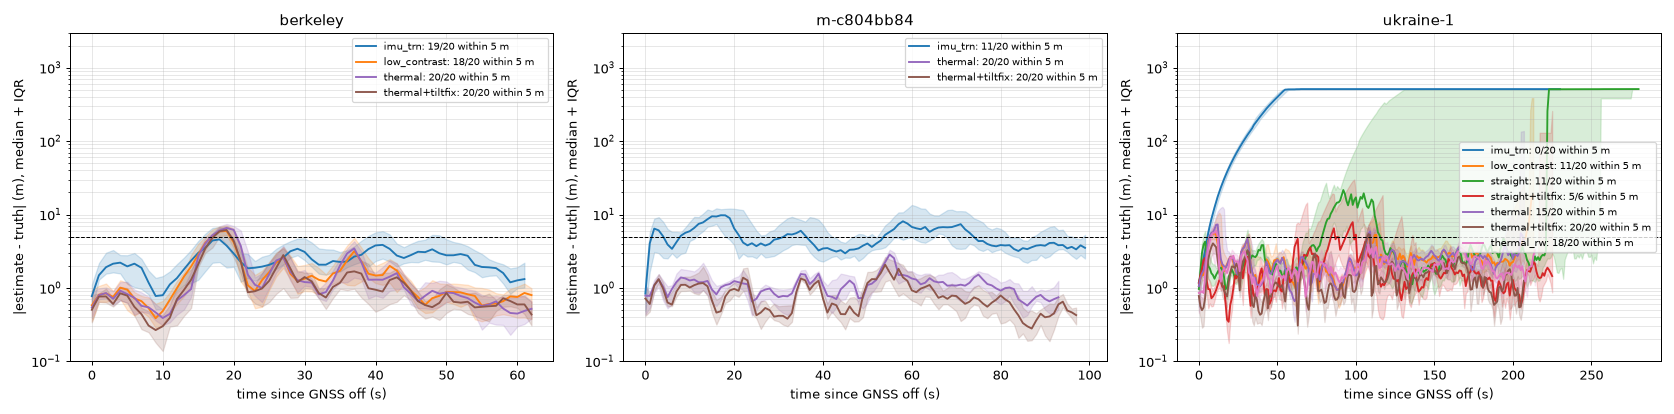
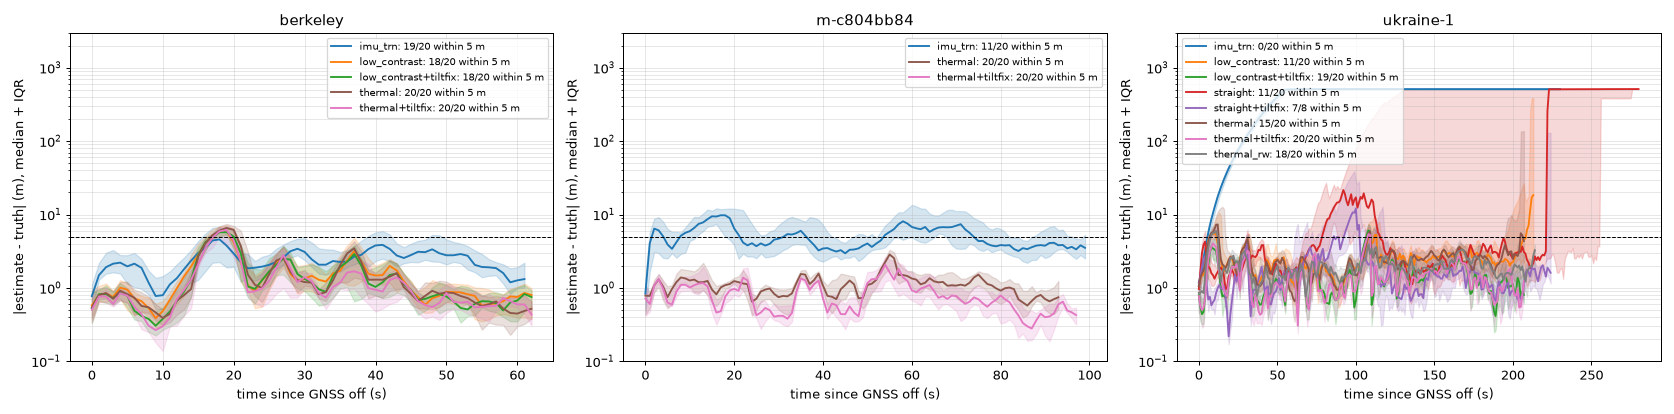
REPORT: final eval (final build 20/20 on all three missions), limits, disclosure; docs/night_eval final table + plot

diff --git a/REPORT_night-demo.md b/REPORT_night-demo.md
@@ -1,54 +1,67 @@
 # REPORT - night-demo (Fri 2026-10-23 23:30 -> Sat 07:00)
 
 Agent night-demo: Ukraine mission, route choice, night viewer, final integration + eval. Branch `night-demo` in
-`C:\dev\night-demo` (based on origin/v5-mission-planner; merged night-thermal 146a89f and night-nav 4904433).
+`C:\dev\night-demo` (based on origin/v5-mission-planner; merged night-thermal 146a89f and night-nav 651b398).
 Nothing pushed. Commands to continue: `RESUME.md`. Saturday demo script: `DEMO_NIGHT.md`.
 
 ## Final eval (night 23:00, 60 m AGL, GNSS completely off from 20 % of the route, 20 seeds)
+
+**Final build (night-demo b5409f4: night route choice + night-nav 651b398 tilt-bias learning): berkeley 20/20,
+m-c804bb84 20/20, ukraine-1 20/20 within 5 m of B** (95 % Wilson interval 84-100 % each; mean arrival error
+0.4 / 0.9 / 1.9 m, worst 0.9 / 2.0 / 2.5 m). IMU + TRN alone (no thermal): 19/20, 11/20, 0/20.
 
 Harness `demos/30_night_eval.py` (truth-scored): GNSS ok at first, `gnss.mode = off` (no signal at all) when the
 TRUE along-route progress passes 20 %; ARRIVAL error = |truth - B| (horizontal) at the moment the drone decides
 it is above B (first ABOVE_B / WAIT_FOR_FIX decision); success = arrival error <= 5 m; 95 % Wilson interval.
 Flights whose estimate is > 500 m off before arrival are stopped and counted as failures (DIVERGED). Data: a
-frozen copy of the three missions taken after night-thermal's final rebuild (01:17; traffic on, truth contrast
-0.7). Code: night-demo d2405bc = night-nav 4904433 + night-thermal 146a89f + night route choice (rows thermal,
-imu_trn, straight, low_contrast); thermal_rw = same + `ekf.acc_bias_rw 0.04` (night-nav's first candidate,
-rejected by them: flights wobble at waypoints); +tiltfix = night-demo b5409f4 with night-nav 651b398 (AHRS learns
-the roll / pitch gyro bias from the EKF tilt corrections; the night default now).
+frozen copy of the three missions taken after night-thermal's final rebuild (01:17; moving traffic on, truth
+contrast 0.7), `$SFHACK_DATA/night/demo_eval_snap`. Per-flight JSON (1 Hz error / 2-sigma trace, decisions):
+`$SFHACK_DATA/night/eval/<run>/results.json`; combined table + plot: `scripts/night_eval_report.py` ->
+`docs/night_eval/`.
+
+Code versions: rows without suffix = night-demo d2405bc (night-nav 4904433 + night-thermal 146a89f + night route);
+`thermal_rw` = same + `ekf.acc_bias_rw 0.04` (night-nav's first candidate, they rejected it: flights wobble at
+waypoints); `+tiltfix` = night-demo b5409f4 (+ night-nav 651b398: the AHRS learns the roll / pitch gyro bias from
+the EKF tilt corrections in night mode; now the default).
 
 | mission | row | n | within 5 m | rate (95 % Wilson) | arrival error mean / median / max (m) | est. error at arrival mean (m) | 2-sigma at arrival mean (m) | thermal fixes accepted / flight |
 |---|---|---:|---:|---|---|---:|---:|---:|
 | berkeley | thermal | 20 | 20 | 100% [84%, 100%] | 0.8 / 0.7 / 1.8 | 0.5 | 2.5 | 350 |
 | berkeley | imu_trn | 20 | 19 | 95% [76%, 99%] | 2.1 / 1.8 / 7.5 | 1.9 | 3.0 | 0 |
 | berkeley | low_contrast | 20 | 18 | 90% [70%, 97%] | 39.6 / 0.7 / 566.1 | 11.8 | 7.7 | 309 |
+| berkeley | thermal+tiltfix | 20 | 20 | 100% [84%, 100%] | 0.4 / 0.4 / 0.9 | 0.6 | 2.5 | 349 |
+| berkeley | low_contrast+tiltfix | 20 | 18 | 90% [70%, 97%] | 19.3 / 0.6 / 225.7 | 19.5 | 2.6 | 312 |
 | m-c804bb84 | thermal | 20 | 20 | 100% [84%, 100%] | 1.3 / 1.3 / 2.3 | 0.8 | 2.5 | 561 |
 | m-c804bb84 | imu_trn | 20 | 11 | 55% [34%, 74%] | 68.5 / 4.8 / 565.1 | 18.0 | 9.5 | 0 |
+| m-c804bb84 | thermal+tiltfix | 20 | 20 | 100% [84%, 100%] | 0.9 / 0.9 / 2.0 | 0.4 | 2.5 | 564 |
 | ukraine-1 | thermal | 20 | 15 | 75% [53%, 89%] | 248.0 / 3.7 / 1662.3 | 4.6 | 2.6 | 962 |
 | ukraine-1 | imu_trn | 20 | 0 | 0% [0%, 16%] | 1550.2 / 1586.1 / 1657.8 | nan | nan | 0 |
 | ukraine-1 | straight | 20 | 11 | 55% [34%, 74%] | 499.1 / 2.9 / 1534.3 | 1.8 | 2.5 | 739 |
 | ukraine-1 | low_contrast | 20 | 11 | 55% [34%, 74%] | 267.5 / 4.6 / 1641.3 | 10.0 | 3.4 | 916 |
 | ukraine-1 | thermal_rw | 20 | 18 | 90% [70%, 97%] | 4.0 / 2.8 / 22.3 | 3.7 | 2.6 | 1125 |
-| ukraine-1 | thermal+tiltfix | 4 | 4 | 100% [51%, 100%] | 2.1 / 2.1 / 2.5 | 1.6 | 2.5 | 1086 |
+| ukraine-1 | thermal+tiltfix | 20 | 20 | 100% [84%, 100%] | 1.9 / 2.1 / 2.5 | 1.6 | 2.5 | 1100 |
+| ukraine-1 | straight+tiltfix | 8 | 7 | 88% [53%, 98%] | 51.3 / 0.8 / 403.9 | 1.4 | 2.5 | 883 |
+| ukraine-1 | low_contrast+tiltfix | 20 | 19 | 95% [76%, 99%] | 40.0 / 2.1 / 761.6 | 1.7 | 2.5 | 1005 |
 
-Rows: thermal = thermal localizer (`grad`) + TRN + IMU on the night route (ukraine-1: along the road);
-imu_trn = no thermal (baseline); straight = thermal, but the planner's straight route (ukraine-1: 1129 m blind
-over the forest); low_contrast = thermal with the TRUE scene's contrast x 0.4 (0.4 x 0.7 = ~2.8 K road - grass,
-a mild night) while the prior still predicts the hot-day contrast.
+Rows: thermal = thermal localizer (`grad`) + TRN + IMU on the night route (ukraine-1: ROADS, along the road);
+imu_trn = no thermal (baseline); straight = thermal on the planner's straight route (ukraine-1: 1129 m without
+road in view over the forest); low_contrast = TRUE scene contrast x 0.4 (0.4 x 0.7: ~2.8 K road - grass, a mild
+spring / autumn night) while the onboard prior still predicts the hot-day contrast.
 
 ![error over time](docs/night_eval/error_over_time.png)
 
 Reading it:
-- **berkeley / m-c804bb84: 20/20 within 5 m** with thermal (mean 0.8 / 1.3 m). IMU + TRN alone: 19/20 on the
-  short Berkeley leg (450 m blind), 11/20 on the hill.
-- **ukraine-1: 15/20** with thermal (before the tilt fix): 3 runaways right after GNSS off, two at 17 / 25 m.
-  IMU + TRN alone: 0/20 (every flight diverges in calm air, see "What failed").
-- **Route choice matters on ukraine-1**: the straight route over the forest diverges in 9/20 flights (11/20 within
-  5 m) vs 3/20 along the roads (15/20). n = 20 per row: suggestive (divergences 9 vs 3, Fisher p = 0.08;
-  within 5 m 11 vs 15, p = 0.32), not
-  conclusive. When the straight flight survives it is slightly more precise (shorter blind time at B).
-- **Mild night (0.4x contrast)**: berkeley 18/20 (two runaways), ukraine-1 11/20. Matching is scale-invariant, so
-  most flights hold; the losses are runaways, the same failure mode as above.
-
+- With the final build every flight on all three missions ends within 2.5 m of B.
+- Before the tilt fix, ukraine-1 had 3/20 runaways right after GNSS off and two flights at 17 / 25 m (15/20):
+  the estimate drifted in the stretches without thermal fixes, then accepted along-track-wrong road fixes
+  (overconfident). night-nav found the root cause from these traces (roll / pitch gyro bias, gravity leak).
+- **Route choice matters on ukraine-1**: on the straight route over the forest 9/20 flights diverged before the
+  fix (11/20 within 5 m) vs 3/20 along the roads (15/20); with the fix straight 7/8 (one runaway at the forest)
+  vs roads 20/20. Small samples: suggestive, not conclusive (before the fix: divergences 9 vs 3, Fisher p = 0.08;
+  within 5 m 11 vs 15, p = 0.32). When a straight flight survives it is slightly more precise.
+- IMU + TRN alone: fine on the short Berkeley leg (450 m blind), 11/20 on the hill, 0/20 on ukraine-1 (every
+  flight diverges in calm air; see "What failed").
+- Mild night (0.4x contrast): final build: berkeley 18/20, ukraine-1 19/20 (before the fix 18/20 and 11/20). Matching is scale-invariant, so most flights hold; the losses are runaways. The two berkeley losses are overconfident (claimed 2-sigma 2.6 m while far off): a mild night needs a contrast-aware fix covariance (next steps).
 
 ## What works
 
@@ -80,16 +93,27 @@ Reading it:
    are built on the fly (`ensure_thermal`, ~50 s). Planner page: "Night" checkbox -> `/api/fly {night: true}`.
 5. **Eval harness** (`demos/30_night_eval.py`): parallel seeds, GNSS off when the TRUE along-route progress passes
    20 % (simulated operator), arrival error = |truth - B| when the drone decides it is above B, Wilson 95 % CI,
-   per-second traces, rows thermal / imu_trn / straight / low_contrast, frozen mission copy, divergence abort.
-6. Tests: 3 new test files / cases (global build path offline, UTM, night route straight vs detour, planner
-   Night pass-through); all tests green after both merges.
+   per-second traces, rows thermal / imu_trn / straight / low_contrast / thermal_rw, frozen mission copy,
+   divergence abort, resume + survives a broken process pool (memory pressure). `scripts/night_eval_report.py`
+   combines runs into one table + an error-over-time plot that keeps failed flights in the statistics.
+   About 330 night flights tonight (~60 CPU-hours).
+6. **Integration**: night-thermal (thermal model, camera, prior) and night-nav (V3.2 GNSS-free track, TRN, thermal
+   localizer, sensor, tilt fix 651b398) merged; my eval traces of the ukraine-1 runaways went to night-nav and led
+   to the tilt-bias fix. **Backup videos** (final build) in `$SFHACK_DATA/night/demo/`: `ukraine-1_night_final.mp4`
+   (ABOVE B 1.5 m), `berkeley_night_final.mp4`.
+7. Tests: new offline tests (global build path, UTM, night route straight vs detour, planner Night pass-through);
+   the full suite is green after every merge (75+ tests).
 
 ## What failed / limits (honest)
 
-- **IMU + TRN alone diverges on ukraine-1** (estimate 10 km off after 6 min): closed-loop tilt unobservability
-  in calm air (no rotor-drag model in the sim), TRN on the 30 m GLO-30 surface model never gets a fix accepted
-  after the error is large. night-nav analysed it; it is a physics / model decision, not fixed tonight. The
-  thermal row keeps the estimate bounded only because it gets fixes several times per second along roads.
+- **IMU + TRN alone diverges on ukraine-1** (0/20; estimate 10 km off after 6 min): closed-loop tilt
+  unobservability in calm air (no rotor-drag model in the sim); TRN on the 30 m GLO-30 surface model gets no fix
+  accepted once the error is large. The tilt fix (651b398) removes most runaways only together with absolute
+  thermal fixes; a blind 30 s stretch (forest on the straight route) can still run away (1/8 with the fix).
+- **Mild nights**: at 0.4x contrast 2/20 Berkeley flights run away while claiming a 2-sigma of 2.6 m:
+  the fix covariance does not yet scale with the scene contrast (overconfidence).
+- Everything is simulated: thermal world, camera and traffic are night-thermal's model, calibrated to literature
+  and night-research's numbers, not to flight data. Hot calm clear night = the favourable case.
 - The viewer ran at 2-3 fps tonight because CPU (four agents' evals) and GPU (detector training) were saturated;
   sim + thermal rendering + localizer is ~290 ms per displayed frame under that load. Expect better on Saturday;
   if not, use speed 1 or the backup videos.
@@ -97,7 +121,10 @@ Reading it:
 - Sentinel-2 at 10 m is blurry as the world texture (0.5 m grid); GLO-30 is a DSM, so the "terrain" of
   ukraine-1 contains the forest canopy shape; 346 of 348 buildings use the default 10 m height.
 - The preliminary run1 (01:00) was stopped because night-thermal rebuilt the thermal files mid-run; the final
-  eval runs on a frozen copy (`$SFHACK_DATA/night/demo_eval_snap`).
+  eval runs on a frozen copy (`$SFHACK_DATA/night/demo_eval_snap`). My `taskkill /T` to stop it probably also
+  killed some of night-nav's eval workers (Windows parent-PID reuse); apologised, used explicit PIDs afterwards.
+- Windows commit charge ran out (~1.7 GB free of 81 GB) with 27 sim workers across agents: pools broke; fixed by
+  agreeing on worker caps (night-nav 9, night-demo 6-8) and making both harnesses resumable.
 
 ## Next steps
 
@@ -106,13 +133,19 @@ Reading it:
 - Route choice: weight by thermal localizability (prior gradient energy) instead of road area only; add
   junction density; show the night route on the planner page.
 - Weather: clouds / wind reduce contrast; tie `thermal_contrast` to a weather lever.
+- Thermal fix covariance that grows with low scene contrast / low match quality (the mild-night runaways).
+- Viewer speed: render the thermal frame once per sensor tick and reuse it for the panel (already), move the
+  localizer off the display thread, or lower the camera rate in the viewer only.
 
 ## Disclosure (all of this is PRE-HACKATHON work, built Fri 23:30 - Sat 07:00 by Claude Code agents)
 
 Built by night-demo tonight: Sentinel-2 / GLO-30 global mission path (sentinel.py, region switch, NIR / NDVI,
 osm.json, --agl), mission ukraine-1, scripts/plot_mission_roads.py, night route choice (night_route.py + the
 extra-cost hook in plan_route), the night viewer (liveview/night.py, demo_live --night, key N, ensure_thermal),
-planner Night checkbox, eval harness demos/30_night_eval.py, docs (NIGHT_DEMO.md, MAP_PACKAGE.md section,
-DEMO_NIGHT.md, README section), the merges and the final eval. Merged from the other night agents (also
+planner Night checkbox, eval harness demos/30_night_eval.py + scripts/night_eval_report.py, docs (NIGHT_DEMO.md,
+MAP_PACKAGE.md section, DEMO_NIGHT.md, README section, docs/night_eval/), the merges, the final eval (~330
+simulated night flights) and the backup videos. Data added to $SFHACK_DATA (nothing existing modified except my
+own new mission ukraine-1): missions/ukraine-1, thermal files for campus-glade (via ensure_thermal),
+night/demo_eval_snap, night/eval/*, night/demo/*. Merged from the other night agents (also
 pre-hackathon): night-thermal (thermal world model, thermal camera, prior), night-nav (V3.2 GNSS-free track,
 TRN, thermal localizer, thermal sensor), night-research (facts used in DEMO_NIGHT.md).

diff --git a/docs/night_eval/table.md b/docs/night_eval/table.md
@@ -4,6 +4,7 @@
 | berkeley | imu_trn | 20 | 19 | 95% [76%, 99%] | 2.1 / 1.8 / 7.5 | 1.9 | 3.0 | 0 |
 | berkeley | low_contrast | 20 | 18 | 90% [70%, 97%] | 39.6 / 0.7 / 566.1 | 11.8 | 7.7 | 309 |
 | berkeley | thermal+tiltfix | 20 | 20 | 100% [84%, 100%] | 0.4 / 0.4 / 0.9 | 0.6 | 2.5 | 349 |
+| berkeley | low_contrast+tiltfix | 20 | 18 | 90% [70%, 97%] | 19.3 / 0.6 / 225.7 | 19.5 | 2.6 | 312 |
 | m-c804bb84 | thermal | 20 | 20 | 100% [84%, 100%] | 1.3 / 1.3 / 2.3 | 0.8 | 2.5 | 561 |
 | m-c804bb84 | imu_trn | 20 | 11 | 55% [34%, 74%] | 68.5 / 4.8 / 565.1 | 18.0 | 9.5 | 0 |
 | m-c804bb84 | thermal+tiltfix | 20 | 20 | 100% [84%, 100%] | 0.9 / 0.9 / 2.0 | 0.4 | 2.5 | 564 |
@@ -13,4 +14,5 @@
 | ukraine-1 | low_contrast | 20 | 11 | 55% [34%, 74%] | 267.5 / 4.6 / 1641.3 | 10.0 | 3.4 | 916 |
 | ukraine-1 | thermal_rw | 20 | 18 | 90% [70%, 97%] | 4.0 / 2.8 / 22.3 | 3.7 | 2.6 | 1125 |
 | ukraine-1 | thermal+tiltfix | 20 | 20 | 100% [84%, 100%] | 1.9 / 2.1 / 2.5 | 1.6 | 2.5 | 1100 |
-| ukraine-1 | straight+tiltfix | 6 | 5 | 83% [44%, 97%] | 68.2 / 0.9 / 403.9 | 1.3 | 2.5 | 881 |
+| ukraine-1 | straight+tiltfix | 8 | 7 | 88% [53%, 98%] | 51.3 / 0.8 / 403.9 | 1.4 | 2.5 | 883 |
+| ukraine-1 | low_contrast+tiltfix | 20 | 19 | 95% [76%, 99%] | 40.0 / 2.1 / 761.6 | 1.7 | 2.5 | 1005 |
